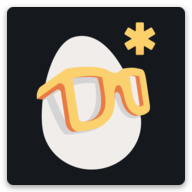
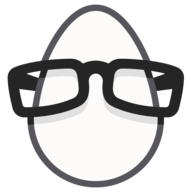
Update to latest artwork

diff --git a/public/index.html b/public/index.html
@@ -1,17 +1,17 @@
 <!doctype html>
-<html lang="en">
+<html lang='en'>
   <head>
-    <meta charset="utf-8">
-    <meta name="viewport" content="width=device-width, initial-scale=1.0, maximum-scale=1.0">
-    <link rel="apple-touch-icon" sizes="180x180" href="/apple-touch-icon.png">
-    <link rel="icon" type="image/png" href="/favicon-32x32.png" sizes="32x32">
-    <link rel="icon" type="image/png" href="/favicon-16x16.png" sizes="16x16">
-    <link rel="manifest" href="/manifest.json">
-    <link rel="mask-icon" href="/safari-pinned-tab.svg" color="#fbd170">
-    <meta name="theme-color" content="#fbd170">
     <title>Instructor Center</title>
+    <meta charset='utf-8'>
+    <meta name='viewport' content='width=device-width, initial-scale=1.0, maximum-scale=1.0'>
+    <link rel='apple-touch-icon' sizes='180x180' href='/apple-touch-icon.png'>
+    <link rel='icon' type='image/png' href='/favicon-32x32.png' sizes='32x32'>
+    <link rel='icon' type='image/png' href='/favicon-16x16.png' sizes='16x16'>
+    <link rel='manifest' href='/manifest.json'>
+    <link rel='mask-icon' href='/safari-pinned-tab.svg' color='#555555'>
+    <meta name='theme-color' content='#ffffff'>
   </head>
   <body>
-    <div id="root"></div>
+    <div id='root'></div>
   </body>
 </html>
